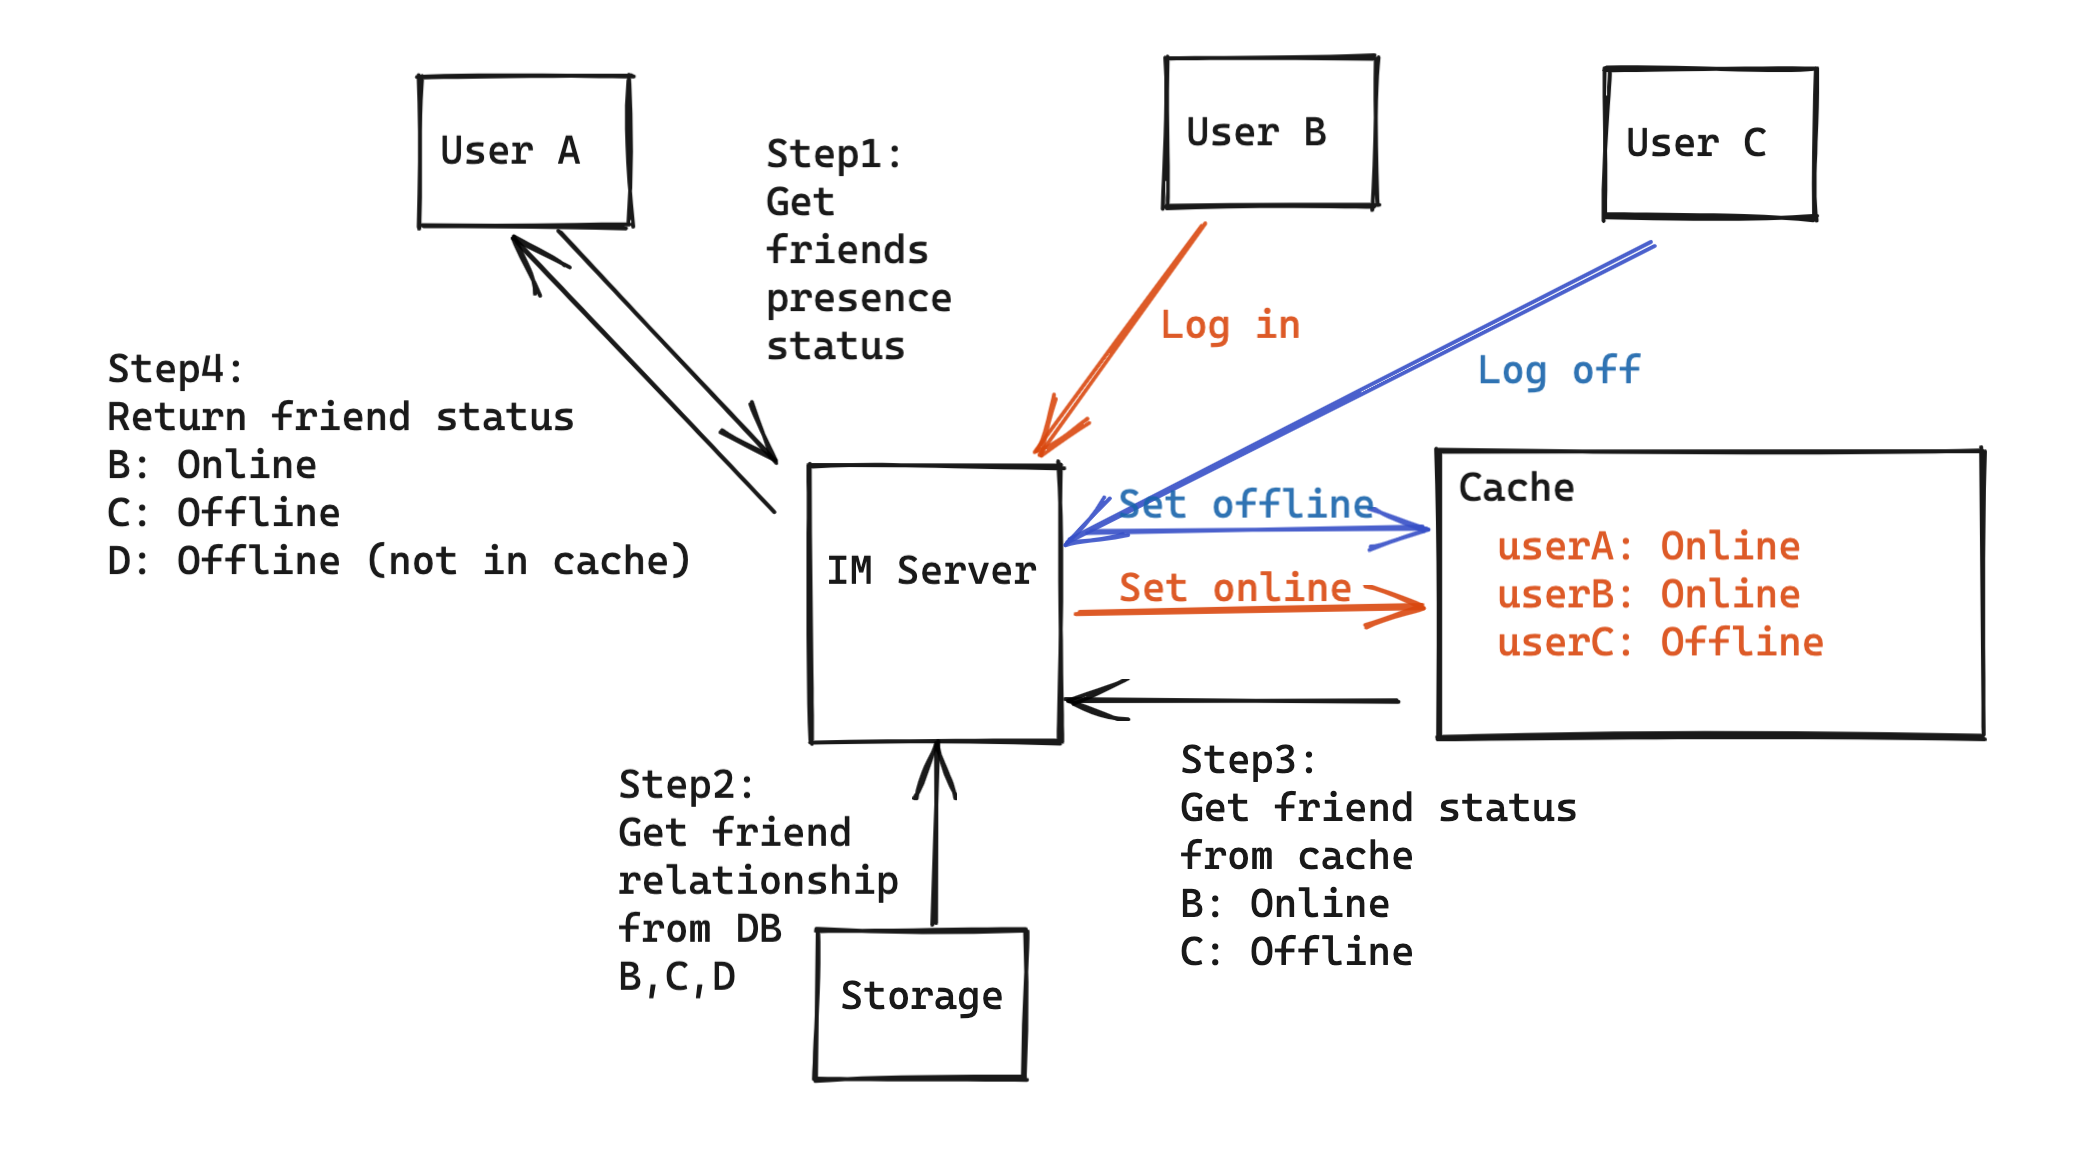
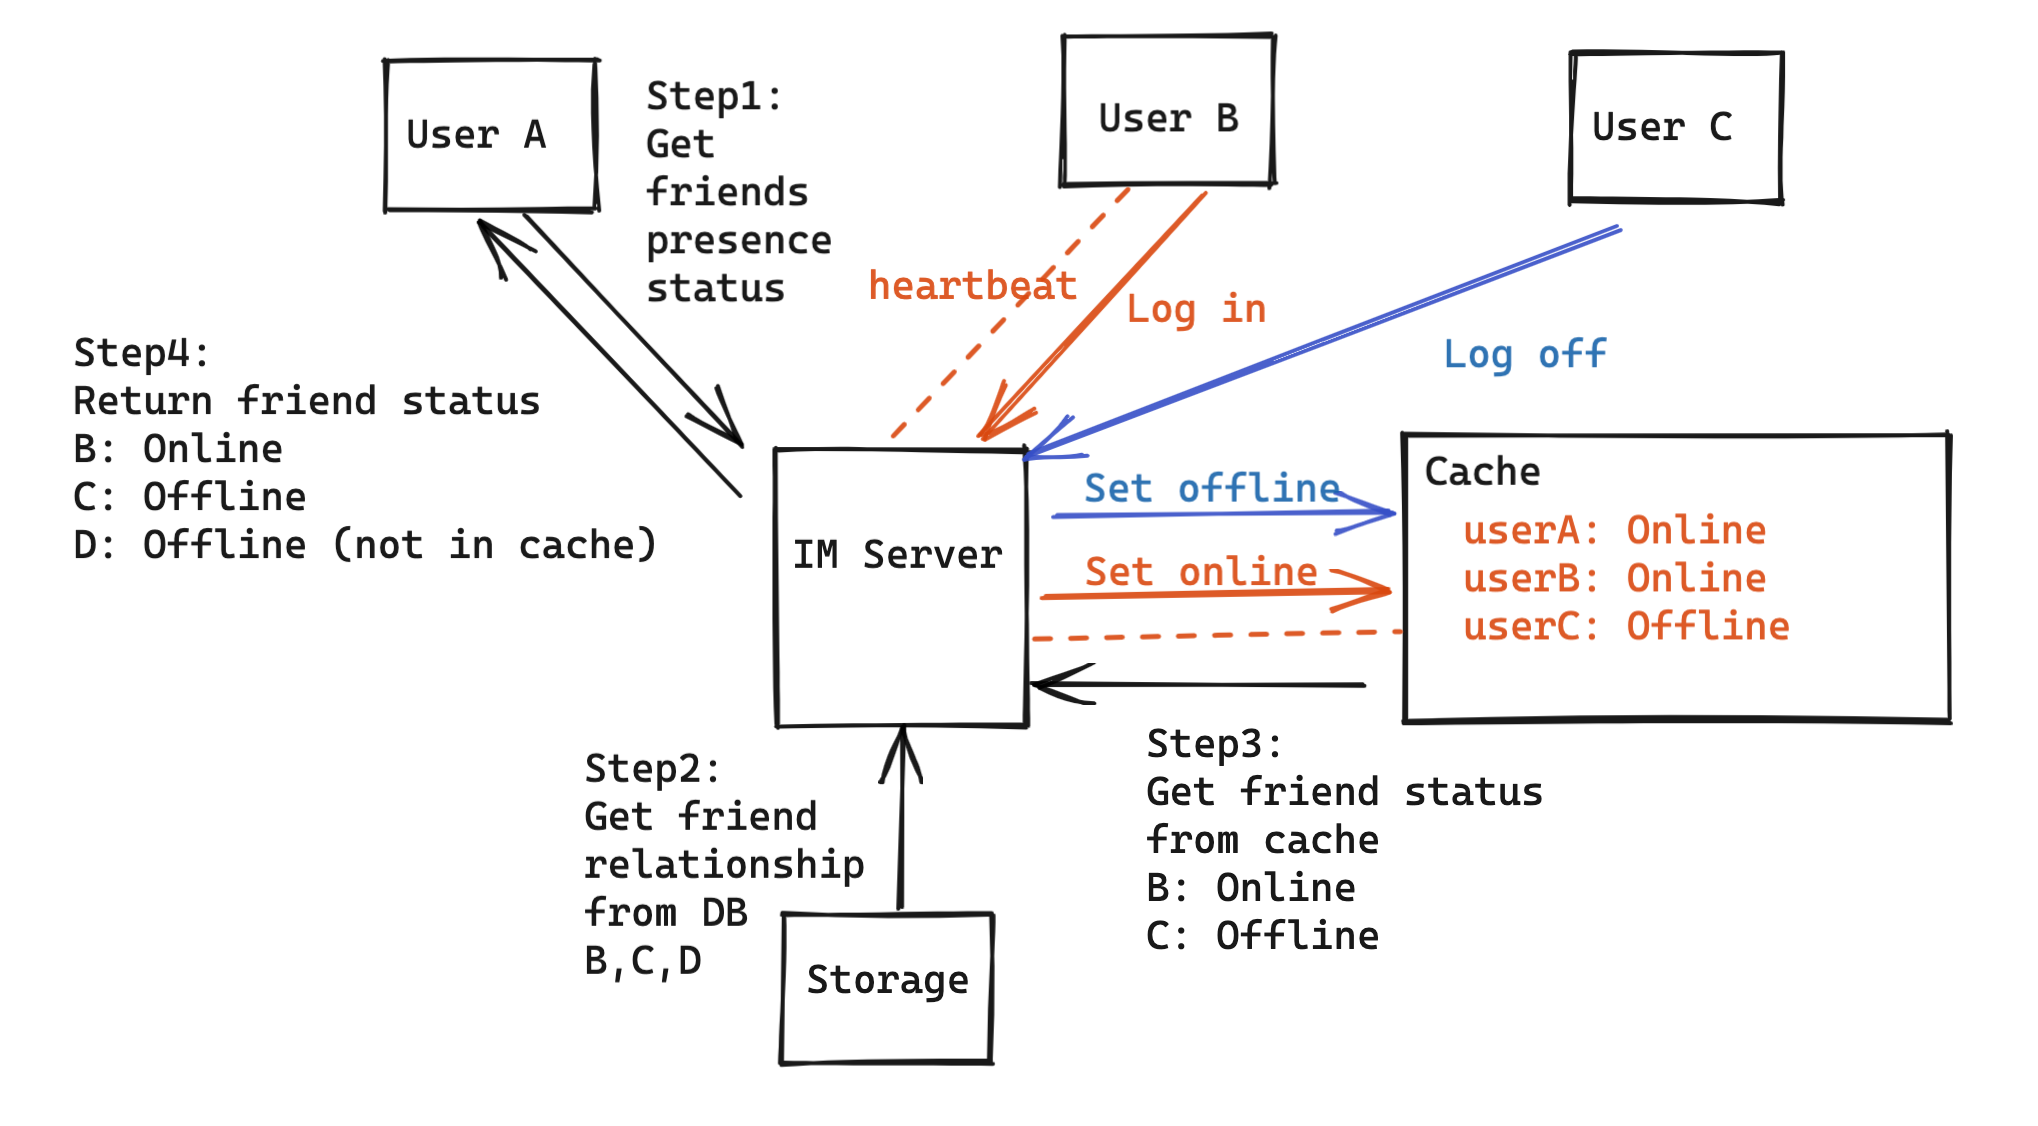
add initial impl

Changed region(s): [[0.1855, 0.0311, 0.9583, 0.9636], [0.0309, 0.2798, 0.34, 0.4973], [0.7419, 0.0311, 0.8965, 0.2176]]

diff --git a/scenario_messenger/presence.md b/scenario_messenger/presence.md
@@ -1,66 +1,69 @@
-- [Heartbeat](#heartbeat)
-  - [Motivations - Jittery connections](#motivations---jittery-connections)
-    - [Uncertainty in network intermediate devices](#uncertainty-in-network-intermediate-devices)
-    - [Unstability in mobile networks](#unstability-in-mobile-networks)
-  - [Why TCP keepalive heartbeat not enough](#why-tcp-keepalive-heartbeat-not-enough)
-  - [App layer heartbeat](#app-layer-heartbeat)
-    - [Frequency](#frequency)
-    - [Direction](#direction)
-    - [Possible improvements](#possible-improvements)
-    - [Pros](#pros)
-    - [Cons](#cons)
 - [Initial design](#initial-design)
-- [Improved design](#improved-design)
+  - [Flowchart](#flowchart)
+  - [Heartbeat](#heartbeat)
+    - [Motivations - Jittery connections](#motivations---jittery-connections)
+      - [Uncertainty in network intermediate devices](#uncertainty-in-network-intermediate-devices)
+      - [Unstability in mobile networks](#unstability-in-mobile-networks)
+    - [Why TCP keepalive heartbeat not enough](#why-tcp-keepalive-heartbeat-not-enough)
+    - [App layer heartbeat](#app-layer-heartbeat)
+      - [Frequency](#frequency)
+      - [Direction](#direction)
+      - [Possible improvements](#possible-improvements)
+      - [Pros](#pros)
+      - [Cons](#cons)
+- [Improved design with heartbeat](#improved-design-with-heartbeat)
 - [References](#references)
 
-# Heartbeat
-## Motivations - Jittery connections
-### Uncertainty in network intermediate devices
+# Initial design
+## Flowchart
+
+![](../.gitbook/assets/im_presence_prototype.png)
+
+## Heartbeat
+### Motivations - Jittery connections
+#### Uncertainty in network intermediate devices
 * Usually there exists multiple network devices(firewall, routers and exchange machines) between client and server. If any of these routers/exchange machines has a problem and does not recover, then it will result in the disconnection between client and server. For IM software, both client / server could not detect whether the connection is still normal. 
   * After establishing connection with server, a client does not connect server for a long time. Then this connection might be closed by the firewall. For IM software, if the connection is closed, even when there is new message coming, client / serer could no longer receive it in time.
   * There will be a NAT process happening within network operators. For optimizing the performance and reduce the resource consumption on network operator devices, some network operators will clear the mapping within NAT if there isn't any msg being sent on the connection.
       * The NAT process is to transform the internal IP address to external IP address because there are only limited IPv4 addresses.
 
-### Unstability in mobile networks
+#### Unstability in mobile networks
 * Members on mobile devices are often on lossy networks and regularly get disconnected and reconnected haphazardly. They could simply be on a bad network or experiencing temporary network interruption, such as passing through a tunnel or a parking garage. 
 * If not handled properly, it would also result in a massive amount of avoidable traffic through our backend systems to distribute all these fluctuations in presence status to the connections of that member.
 
-## Why TCP keepalive heartbeat not enough
+### Why TCP keepalive heartbeat not enough
 * Configuration of TCP keep-alive is not designed for IM heartbeat
   * Keep-alive by TCP/IP protocol. Disabled by default. Three parameters to be configured: heart beat cycle (default 2 hour), number of retries (retry 9 time), timeout period (75s).
   * Low flexibility in tuning the heartbeat cycle period (always fixed cycle period);
 * Network layer available does not mean application layer available. For example, application is stuck in a dead cycle.
 
-## App layer heartbeat
+### App layer heartbeat
 * A dedicated heartbeat message. Or it could also carry additional business layer information. 
 * Notify the client to reconnect if not receiving the ack of heartbeat msgs after timeout.
 
-### Frequency
+#### Frequency
 * Fixed heartbeat message: Once per 30s. If still has not received msg after 15s, then considered connection deprecated. 
   * Suppose each heartbeat msg is 5 bytes, then every day send 2880 heartbeat package. 
   * One month cost in total 5 * 2 * 2880* 30 = 0.8 M 
 * Improvement1: Increase the duration of heartbeat message: 30s -> 5min.
 * Improvement2: Only after n (n > 1)  heartbeat messages, consider connection deprecated
 
-### Direction
+#### Direction
 * Usually it is from client to server because server won't limit itself to certain clients. 
 
-### Possible improvements
+#### Possible improvements
 * Dynamic heartbeat
 
-### Pros
+#### Pros
 * More flexibility in tuning the heartbeat cycle period
 * Reflect whether the application is avaialble.
 * Used in industry. For example, WhatsApp use 30 seconds or 1 minutes app level heartbeat; Wechat use 4.5 minutes and twitter uses 2 minutes.
 
-### Cons
+#### Cons
 * Will have some additional data transmission cost because not supported natively by TCP/IP protocol.
 
-# Initial design
+# Improved design with heartbeat
 
-![](../.gitbook/assets/im_presence_prototype.png)
-
-# Improved design
 
 # References
 * https://engineering.linkedin.com/blog/2018/01/now-you-see-me--now-you-dont--linkedins-real-time-presence-platf
